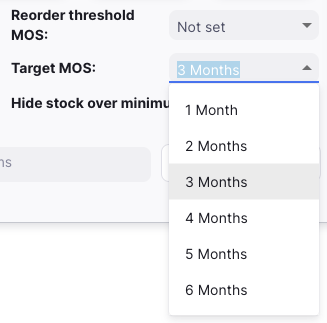
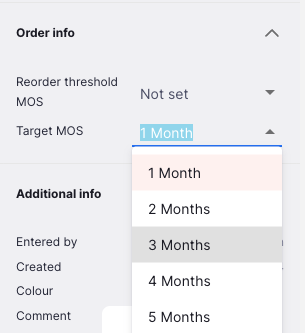
update internal orders

diff --git a/content/docs/replenishment/internal_orders.md b/content/docs/replenishment/internal_orders.md
@@ -62,6 +62,10 @@ You can sort the list using the column headers:
 
 ### Defining Target MOS (Maximum MOS)
 
+Additional information and configuration for the Internal Order can be found in the detail panel, which you can access by clicking the `More` button in the top right:
+
+![MaxMOS](/docs/replenishment/images/intord_moreinfo.png)
+
 Defining the Target MOS (Month of Stock) is critical to the calculation of the **Suggested Quantity**:
 
 - There is an industry rule of thumb that the _Target MOS_ should be set to 3 times the ordering cycle
@@ -233,7 +237,7 @@ To set the permission, edit the user within mSupply and change to the `Open mSup
 
 Without this option checked, the user will not be able to update the Internal Order status to `Sent` and the order is unable to be processed.
 
-On changing the status to `Sent`, the user's details are added to the comment field; this can be seen when viewing the Internal Order, in the details panel:
+On changing the status to `Sent`, the user's details are added to the comment field; this can be seen when viewing the Internal Order, in the detail panel:
 
 ![Internal Order detail with approval comment](/docs/replenishment/images/intord_approval_comment.png)
 
